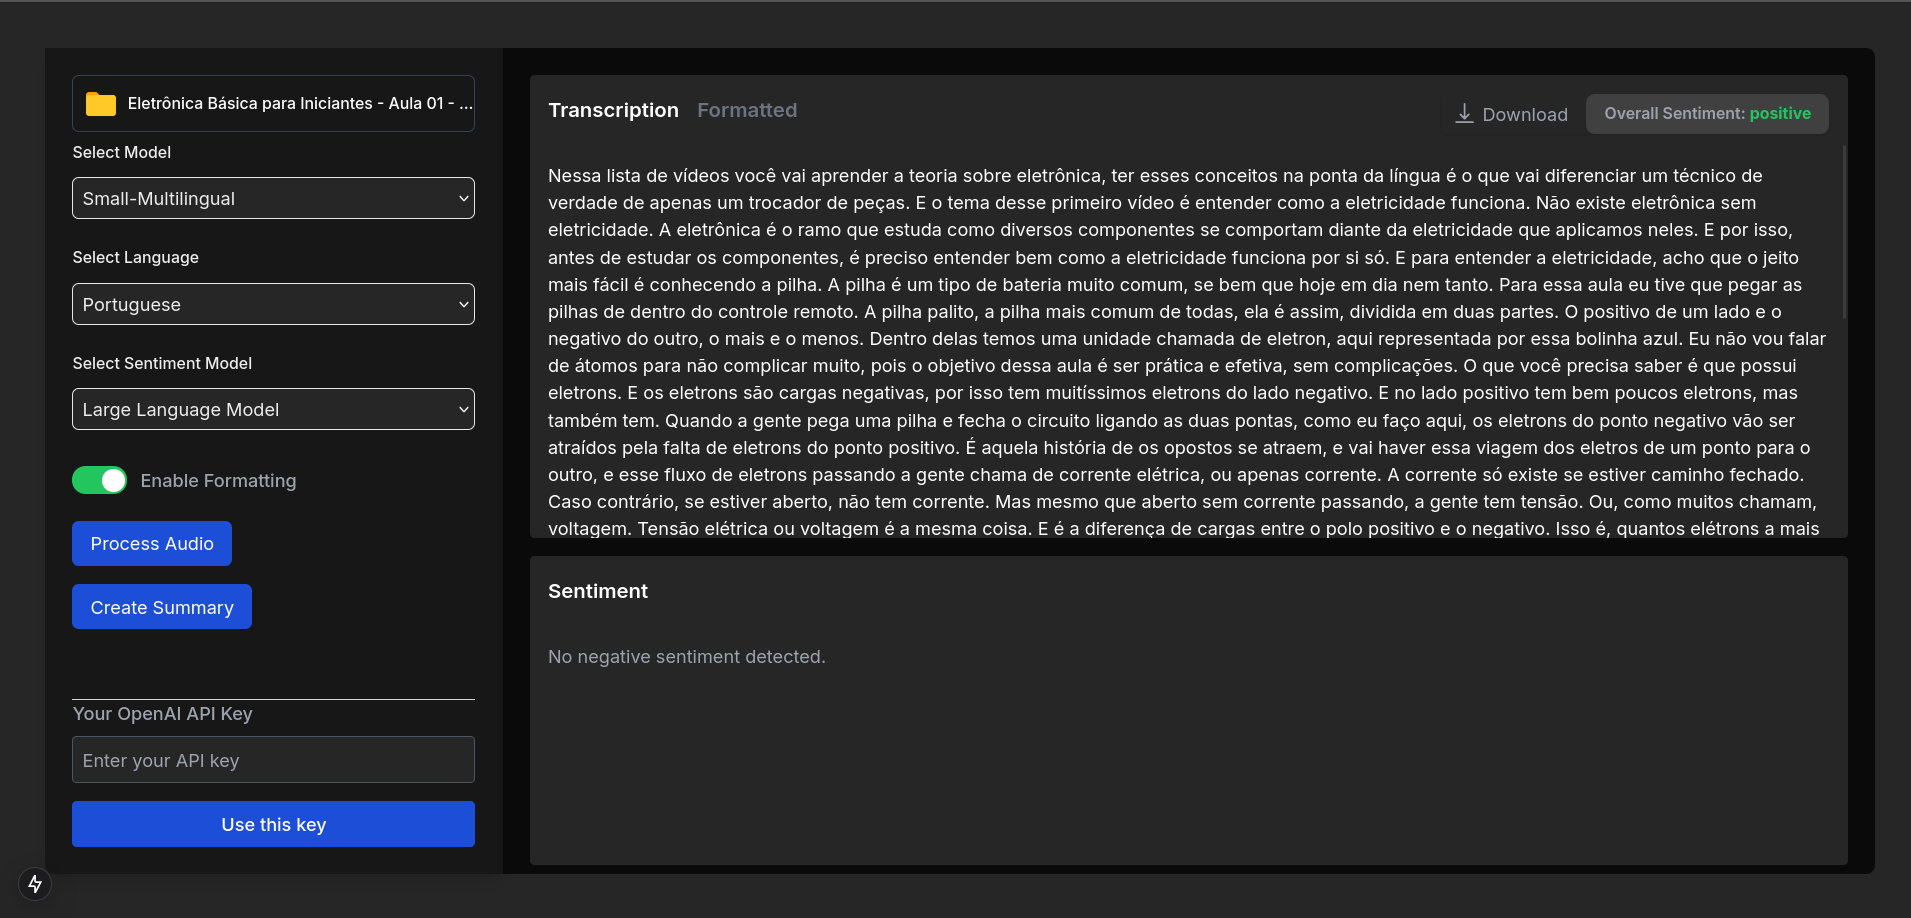
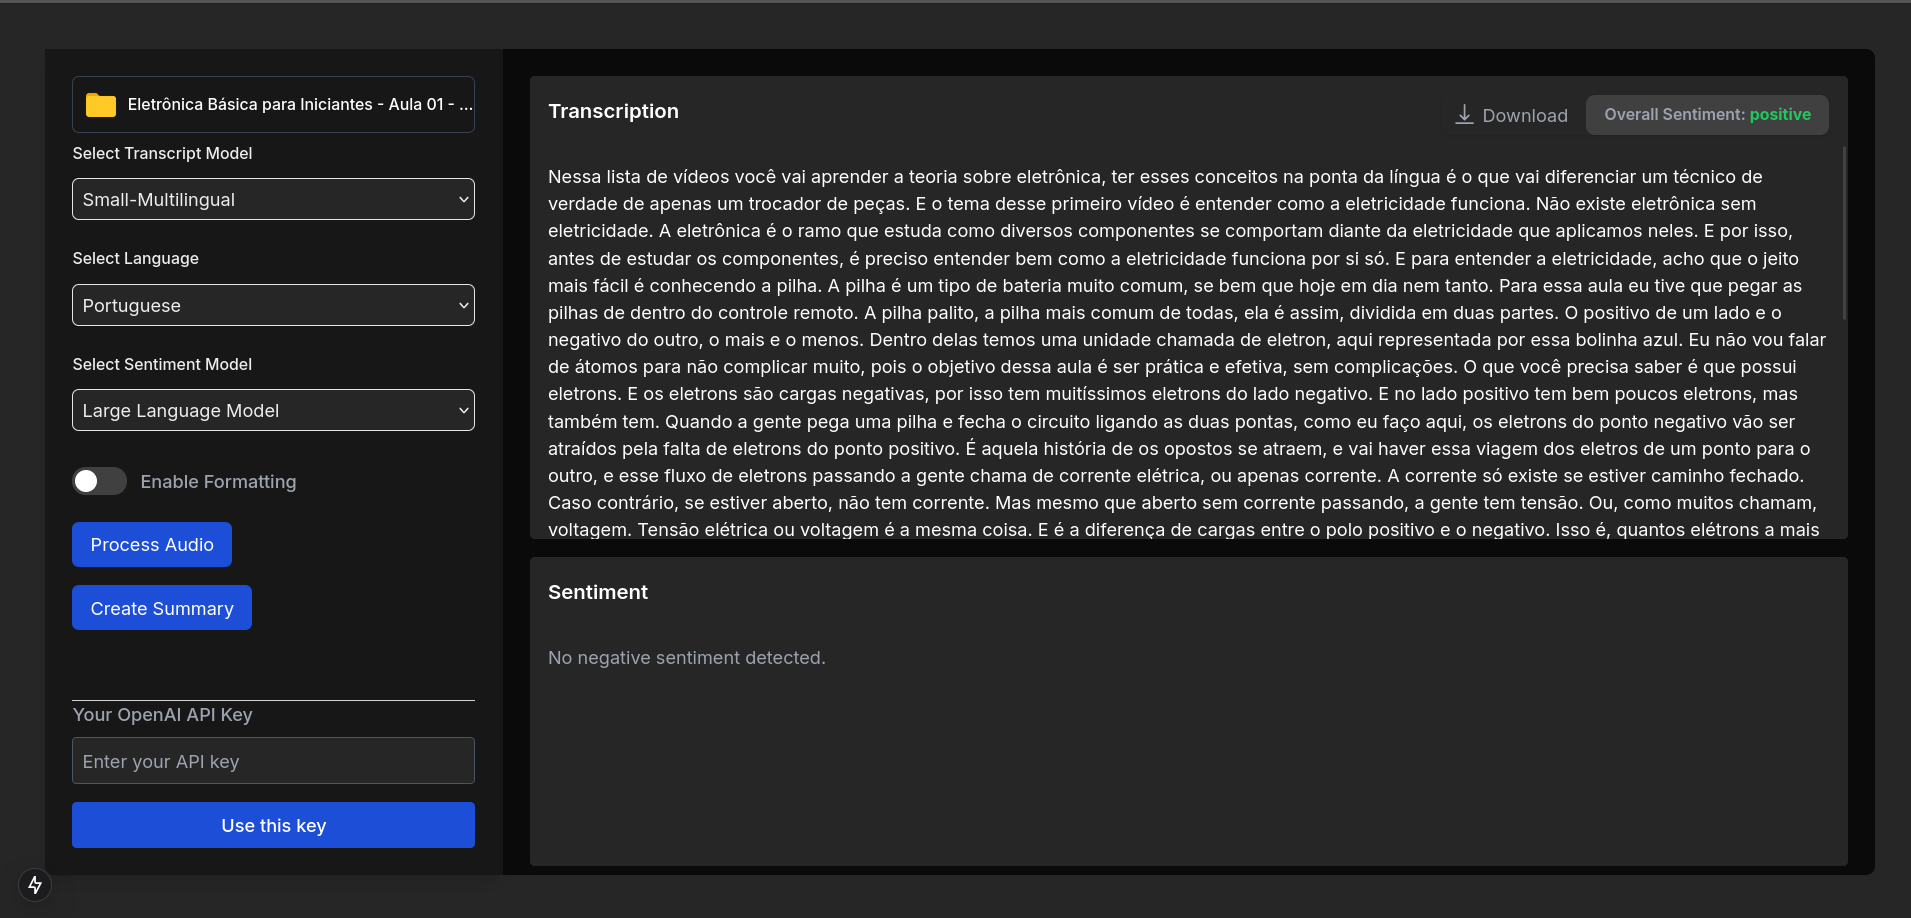
style: fix style and readme imgs

diff --git a/frontend-next/src/app/page.tsx b/frontend-next/src/app/page.tsx
@@ -84,7 +84,7 @@ const Home = () => {
         <FileUpload selectedFile={selectedFile} onFileChange={(e) => setSelectedFile(e.target.files?.[0] || null)} />
         <div className='pb-2'></div>
         <Dropdown
-          label="Select Model"
+          label="Select Transcript Model"
           options={[
             { value: 'tiny.en', label: 'Tiny-English' },
             { value: 'tiny', label: 'Tiny-Multilingual' },
